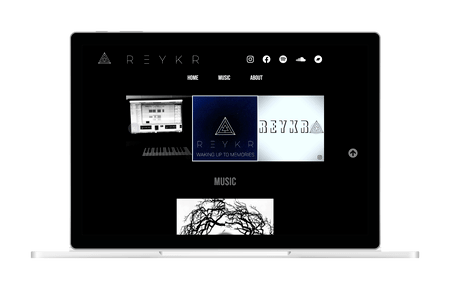
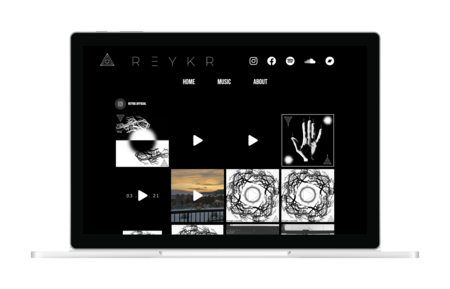
added Weather Dash project and updated Reykr image

diff --git a/index.html b/index.html
@@ -186,7 +186,7 @@
           </li>
           <li tabindex="0">
             <i class="fas fa-terminal"></i>
-            <h4>Terminal</h4>
+            <h4>Command Line</h4>
           </li>
           <li tabindex="0">
             <i class="fas fa-database"></i>
@@ -239,6 +239,27 @@
           <!-- Project 1 -->
           <li data-aos="fade-up" data-aos-easing="ease-in-out">
             <div class="projectImage">
+              <img loading="lazy" src="./styles/assets/weatherDash.png" alt="Weather Dash, a simple weather dashboard">
+            </div>
+            <h4>Weather Dash</h4>
+            <p>A simple weather dashboard build with React, TypeScript, and a REST API. Search for and view a five day weather forecast for any city. Includes unit tests (Jest, React Testing Library), e2e tests (Cypress), and state management (Recoil).</p>
+            <ul class="used">
+              <li>React</li>
+              <li>TypeScript</li>
+              <li>REST API</li>
+              <li>Recoil</li>
+              <li>MUI</li>
+              <li>react-icons</li>
+            </ul>
+            <div class="projectLinkContainer">
+              <a class="projectLink" href="https://github.com/LucasSilbernagel/weather-dash" target="_blank" rel="noopener noreferrer">View Code <i aria-label="external link" class="fas fa-external-link-alt"></i></a>
+              <a class="projectLink" href="https://lucas-weather-dash.herokuapp.com/" target="_blank" rel="noopener noreferrer">View Live <i aria-label="external link" class="fas fa-external-link-alt"></i></a>
+            </div>
+          </li>
+
+          <!-- Project 2 -->
+          <li data-aos="fade-up" data-aos-easing="ease-in-out">
+            <div class="projectImage">
               <img loading="lazy" src="./styles/assets/wordGameDB.png" alt="Word Game DB">
             </div>
             <h4>Word Game DB</h4>
@@ -258,7 +279,7 @@
             </div>
           </li>
 
-          <!-- Project 2 -->
+          <!-- Project 3 -->
           <li data-aos="fade-up" data-aos-easing="ease-in-out">
             <div class="projectImage">
               <img loading="lazy" src="./styles/assets/bestFlix.png" alt="bestFlix movie app">
@@ -267,7 +288,6 @@
             <p>Welcome to bestFlix, the best movies of all time as voted by you! Search for and nominate up to four movies, and vote for your favourites on the official list of nominees. This project uses only React Hooks, no class components.</p>
             <ul class="used">
               <li>React</li>
-              <li>React Hooks</li>
               <li>Firebase</li>
               <li>REST API</li>
               <li>SCSS</li>
@@ -280,7 +300,7 @@
             </div>
           </li>
 
-          <!-- Project 3 -->
+          <!-- Project 4 -->
           <li data-aos="fade-up" data-aos-easing="ease-in-out">
             <div class="projectImage">
               <img loading="lazy" src="./styles/assets/battleRockets.png" alt="Battle Rockets game">
@@ -304,13 +324,13 @@
             </div>
           </li>
 
-          <!-- Project 4 -->
+          <!-- Project 5 -->
           <li data-aos="fade-up" data-aos-easing="ease-in-out">
             <div class="projectImage">
               <img loading="lazy" src="./styles/assets/reykr.png" alt="reykrmusic.com, a single-page website">
             </div>
             <h4>reykrmusic.com</h4>
-            <p>A custom WordPress theme and website for Reykr, an electronic music producer and DJ. Freelance project built according to client specifications. Incorporates Advanced Custom Fields (ACF) and an Instagram plugin.</p>
+            <p>A custom WordPress theme and website for Reykr, an electronic music producer and DJ.</p>
             <ul class="used">
               <li>WordPress</li>
               <li>PHP</li>
@@ -325,7 +345,7 @@
             </div>
           </li>
 
-          <!-- Project 5 -->
+          <!-- Project 6 -->
           <li data-aos="fade-up" data-aos-easing="ease-in-out">
             <div class="projectImage">
               <img loading="lazy" src="./styles/assets/triviaQuest.png" alt="Trivia Quest, a trivia game based on Trivial Pursuit">
@@ -341,26 +361,6 @@
             <div class="projectLinkContainer">
               <a class="projectLink" href="https://github.com/heatherAndLucas/triviaQuest" target="_blank" rel="noopener noreferrer">View Code <i aria-label="external link" class="fas fa-external-link-alt"></i></a>
               <a class="projectLink" href="https://heatherandlucas.github.io/triviaQuest/" target="_blank" rel="noopener noreferrer">View Live <i aria-label="external link" class="fas fa-external-link-alt"></i></a>
-            </div>
-          </li>
-
-          <!-- Project 6 -->
-          <li data-aos="fade-up" data-aos-easing="ease-in-out">
-            <div class="projectImage">
-              <img loading="lazy" src="./styles/assets/rocket-vision.png" alt="Rocket vision, a custom WordPress theme">
-            </div>
-            <h4>Rocket Vision</h4>
-            <p>A custom WordPress theme for a digital agency website, based on a Photoshop design.</p>
-            <ul class="used">
-              <li>WordPress</li>
-              <li>PHP</li>
-              <li>CSS3</li>
-              <li>JavaScript</li>
-              <li>jQuery</li>
-            </ul>
-            <div class="projectLinkContainer">
-              <a class="projectLink" href="https://github.com/LucasSilbernagel/rocketVision" target="_blank" rel="noopener noreferrer">View Code <i aria-label="external link" class="fas fa-external-link-alt"></i></a>
-              <a class="projectLink" href="https://lucassilbernagel.com/rocket-vision/" target="_blank" rel="noopener noreferrer">View Live <i aria-label="external link" class="fas fa-external-link-alt"></i></a>
             </div>
           </li>
           
